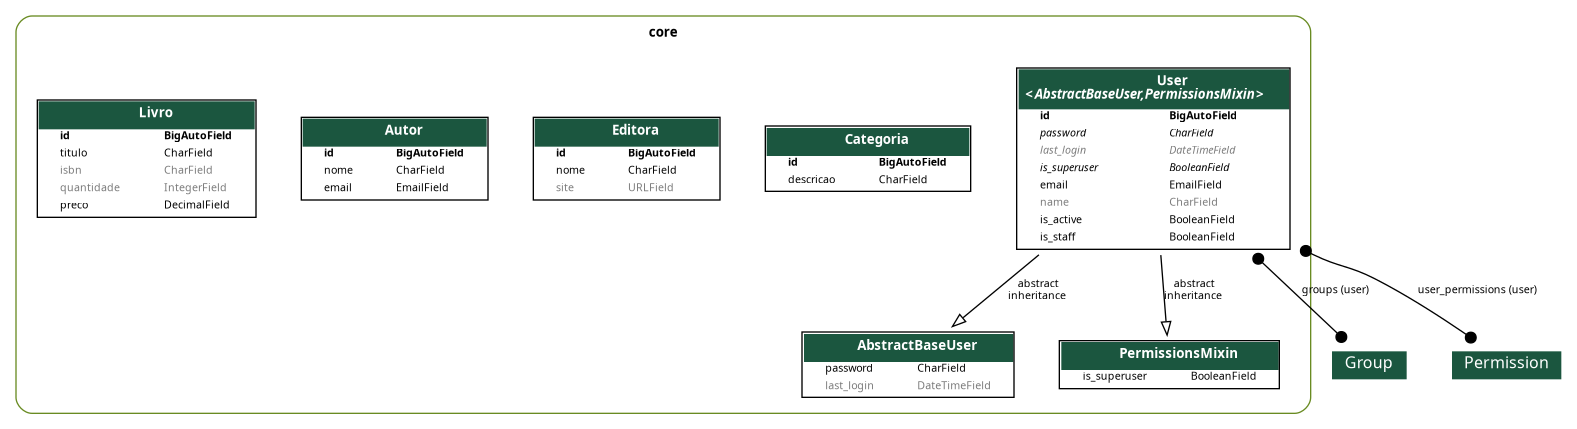
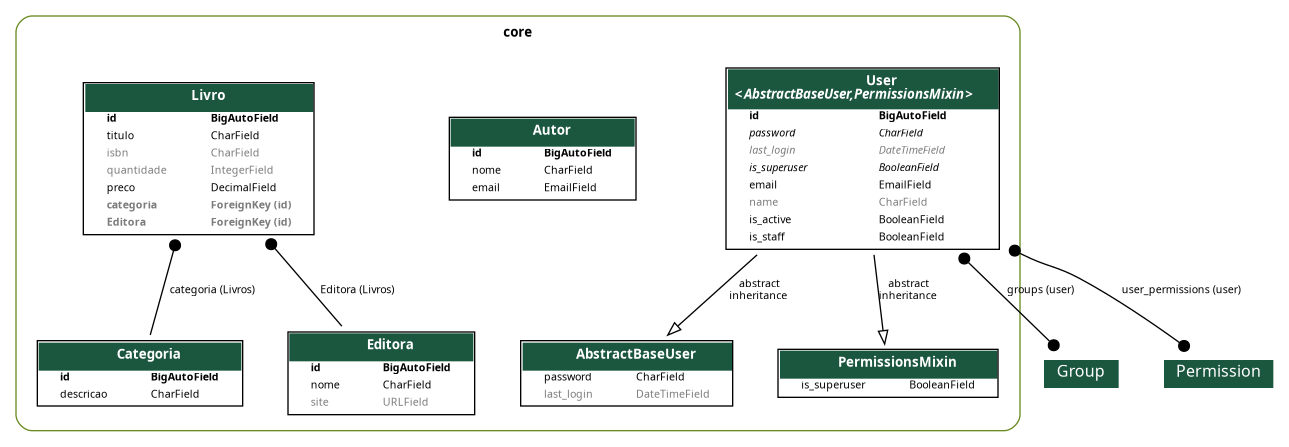
Criado o relacionamento entre livro  e editora

diff --git a/core/models/livro.py b/core/models/livro.py
@@ -1,11 +1,17 @@
 from django.db import models
 
+from .categoria import Categoria
+
+from .editora import Editora
+
 
 class Livro(models.Model):
     titulo = models.CharField(max_length=255)
     isbn = models.CharField(max_length=32, null=True, blank=True)
     quantidade = models.IntegerField(default=0, null=True, blank=True)
     preco = models.DecimalField(max_digits=7, decimal_places=2, default=0)
+    categoria = models.ForeignKey(Categoria, on_delete=models.PROTECT, related_name='Livros', null=True, blank=True)
+    Editora = models.ForeignKey(Editora, on_delete=models.PROTECT, related_name='Livros', null=True, blank=True)
 
     def __str__(self):
         return f'({self.id}) {self.titulo} ({self.quantidade})'

diff --git a/core/migrations/0007_livro_categoria.py b/core/migrations/0007_livro_categoria.py
@@ -1,0 +1,19 @@
+# Generated by Django 5.2.12 on 2026-03-17 17:41
+
+import django.db.models.deletion
+from django.db import migrations, models
+
+
+class Migration(migrations.Migration):
+
+    dependencies = [
+        ('core', '0006_autor_categoria_editora_livro'),
+    ]
+
+    operations = [
+        migrations.AddField(
+            model_name='livro',
+            name='categoria',
+            field=models.ForeignKey(blank=True, null=True, on_delete=django.db.models.deletion.PROTECT, related_name='Livros', to='core.categoria'),
+        ),
+    ]

diff --git a/core/migrations/0008_livro_editora.py b/core/migrations/0008_livro_editora.py
@@ -1,0 +1,19 @@
+# Generated by Django 5.2.12 on 2026-03-17 17:51
+
+import django.db.models.deletion
+from django.db import migrations, models
+
+
+class Migration(migrations.Migration):
+
+    dependencies = [
+        ('core', '0007_livro_categoria'),
+    ]
+
+    operations = [
+        migrations.AddField(
+            model_name='livro',
+            name='Editora',
+            field=models.ForeignKey(blank=True, null=True, on_delete=django.db.models.deletion.PROTECT, related_name='Livros', to='core.editora'),
+        ),
+    ]
